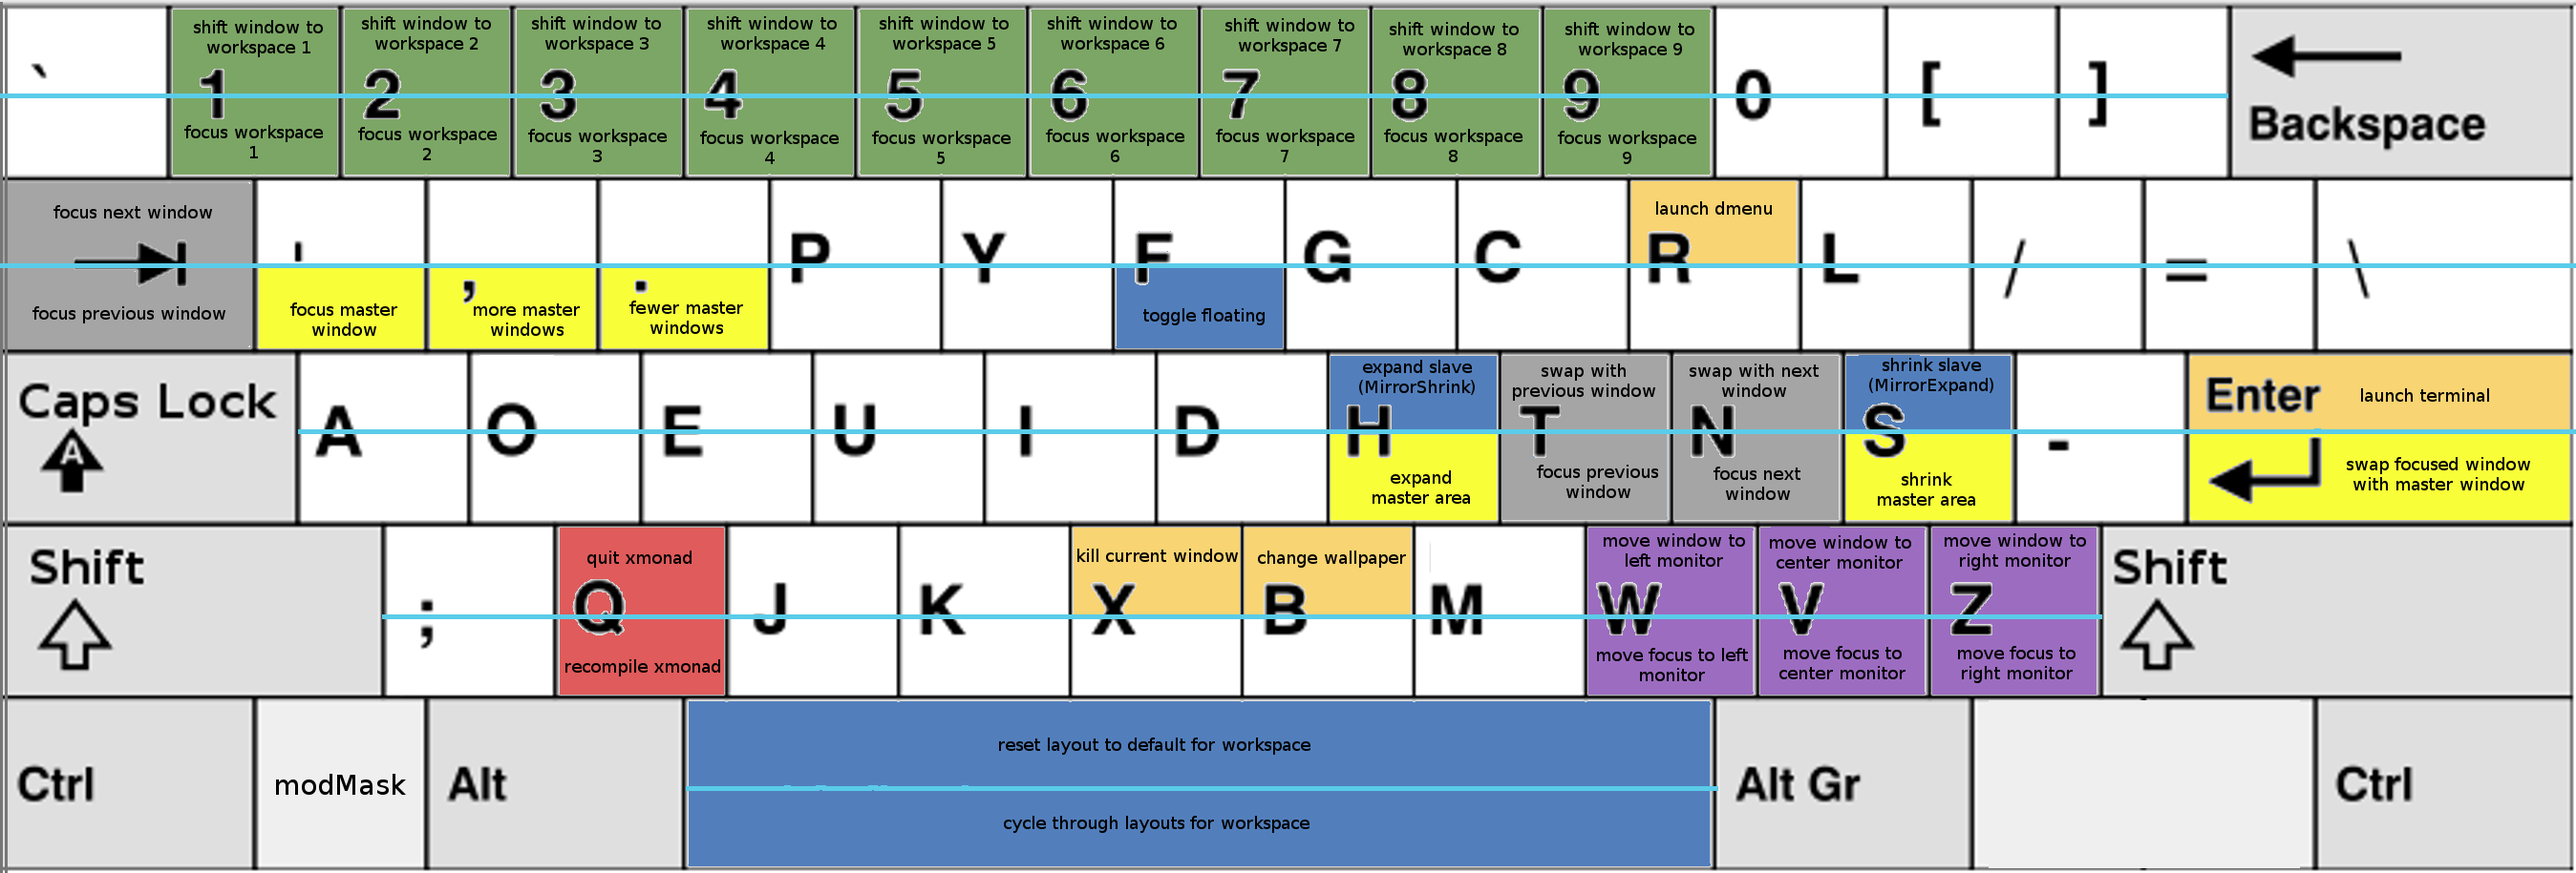
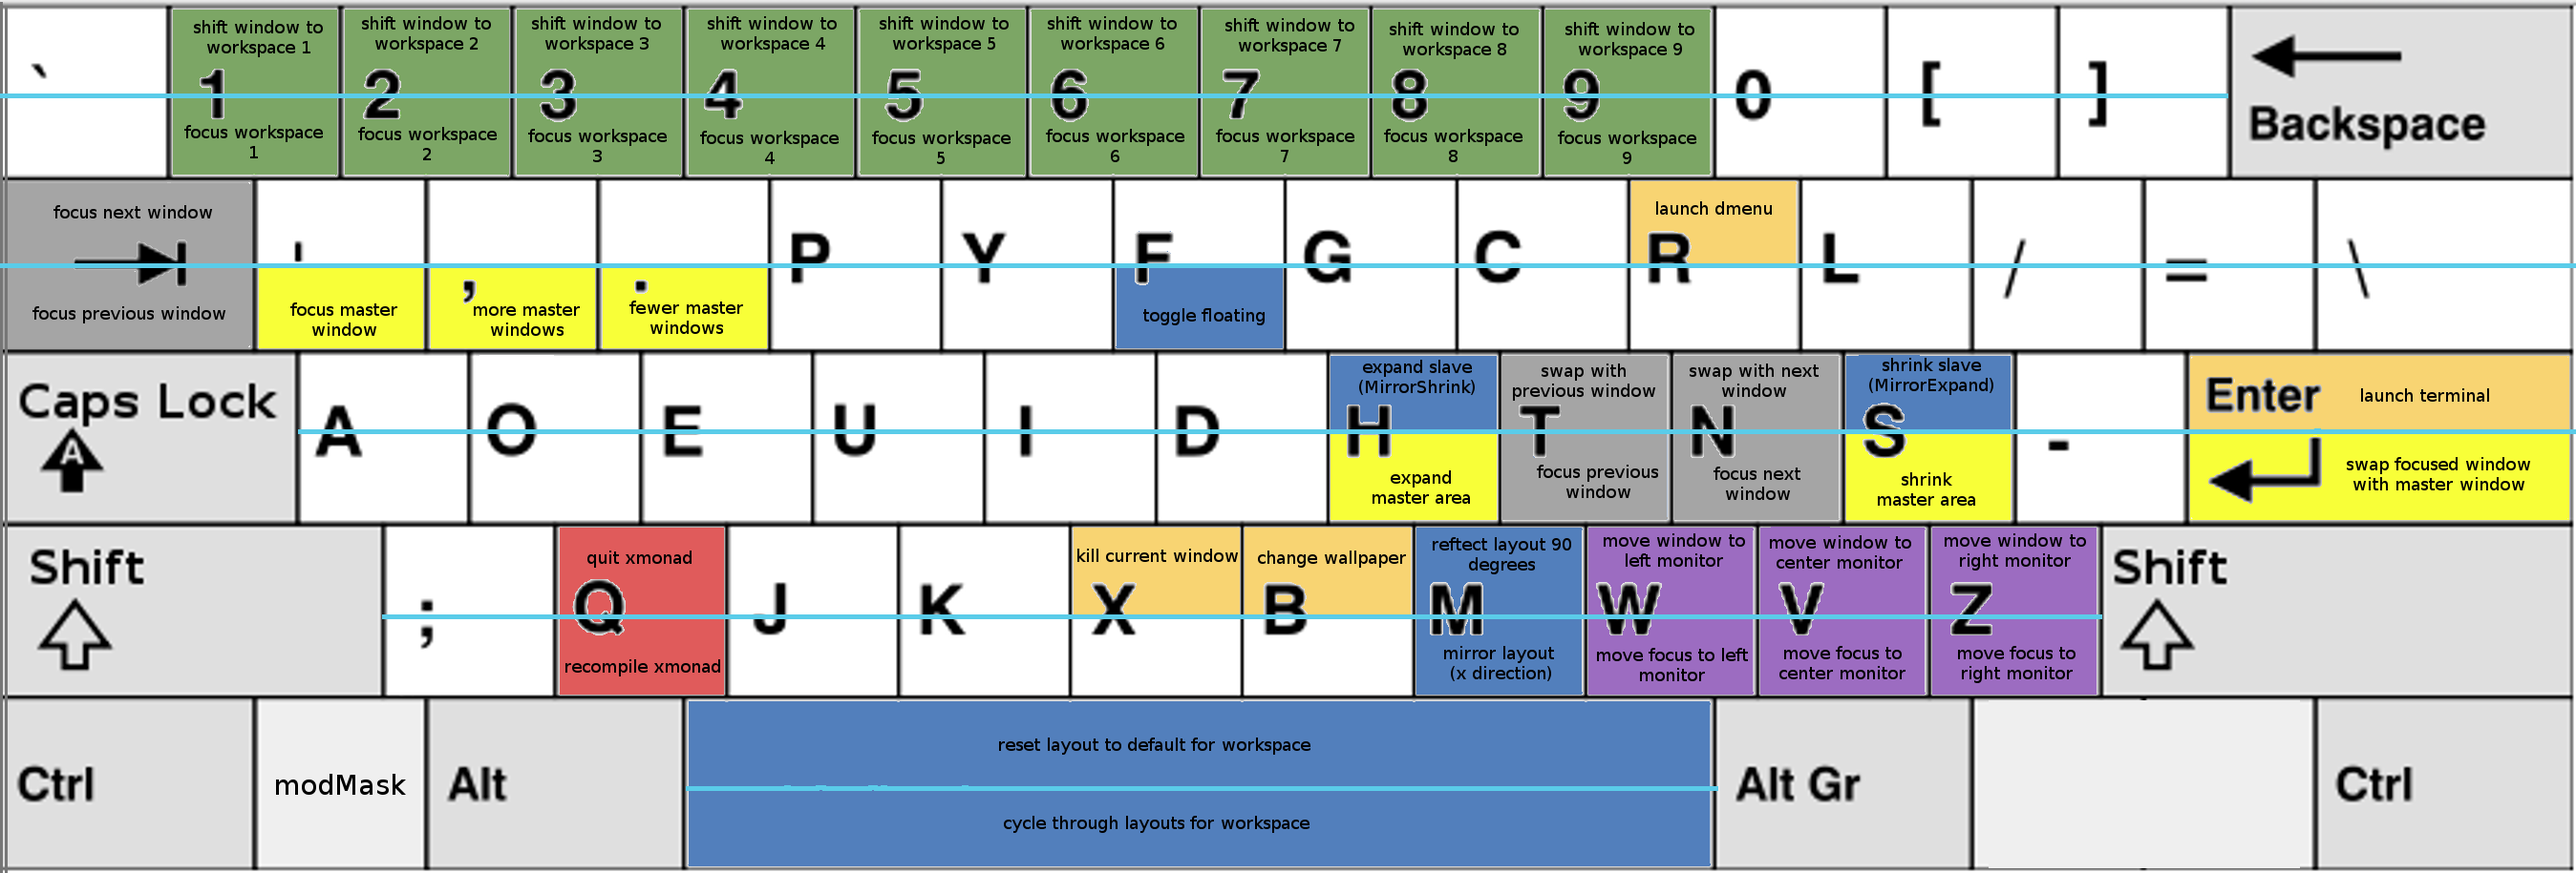
Fixed up layouts, first stage of xinerama swap complete (added M-m, see keybindings)

Changed region(s): [[0.5295, 0.5814, 0.6229, 0.7956]]

diff --git a/README.md b/README.md
@@ -12,10 +12,10 @@ I run a tripple monitor setup and Dvorak keyboard layout (and am considering mov
 
 ## Todo
 
-- [x] Sort out Gimp layout (changed to single window and sunk default floating behaviour)
+- [X] Sort out Gimp layout (changed to single window and sunk default floating behaviour)
 - [ ] Colour each visible workspace separately
-- [ ] Set up decent layouts [in progress]
-- [ ] Individualise layouts; ie. overwrite default workspace layouts based on Xinerama screen - specifically layout flip (master on left for rhs monitor, master on right for lhs monitor)
+- [X] Set up decent layouts 
+- [ ] Individualise layouts; ie. overwrite default workspace layouts based on Xinerama screen - specifically layout flip (master on left for rhs monitor, master on right for lhs monitor) [Partially done - added M-m & M-M commands, want to ultimately hook this though...]
 - [ ] fix dzen2 bar to my liking
 - [X] Organise keymap better
 - [ ] Maybe look into Floatkeys. Discussion on [StackOverflow](http://stackoverflow.com/questions/9157349/xmonad-when-floating-a-window-move-or-resize-it) (only useful if I use floats a lot - doesn't seem to be the case atm)
